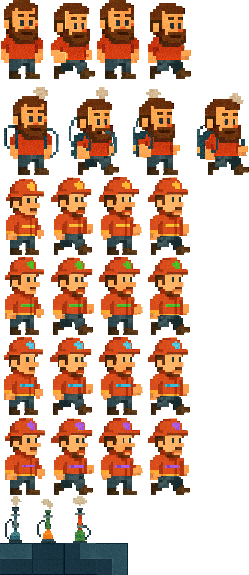
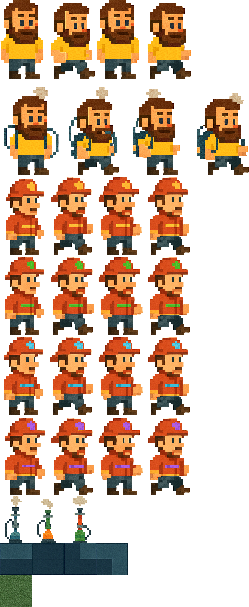
- Обновил спрайты - Облегчил игру - Убрал вертикальные свайпы в приложении телеграма

diff --git a/script/index1.js b/script/index1.js
@@ -56,10 +56,10 @@ function setStartValues() {
   setRandomItemsToMap(numItems)
   pacman = new Player()
   ghosts = [
-    new Enemy('Blinky', '#f00', {x:12, y:1}, {x:10, y:8}),
-    new Enemy('Pinky', '#ffb8ff', {x:12, y:1}, {x:10, y:8}),
-    new Enemy('Inky', '#0ff', {x:12, y:1}, {x:10, y:8}),
-    new Enemy('Clyde', '#ffb852', {x:12, y:1}, {x:10, y:8}),
+    new Enemy('Blinky', '#f00', {x:12, y:1}, {x:12, y:13}),
+    new Enemy('Pinky', '#ffb8ff', {x:12, y:1}, {x:13, y:13}),
+    // new Enemy('Inky', '#0ff', {x:12, y:1}, {x:13, y:12,direction:'up',nextDirection:'up'}),
+    // new Enemy('Clyde', '#ffb852', {x:12, y:1}, {x:13, y:11}),
   ];
   score = 0
   scoreElement.textContent = `Кальянов: ${score}/${numItems}`
@@ -241,8 +241,22 @@ function drawMap(timestamp) {
         ctx.restore();
       }
       else if (map[y][x] === 3) {
-        ctx.fillStyle = '#00ff04';
-        ctx.fillRect(x * TheGame.tileSize, y * TheGame.tileSize, TheGame.tileSize, TheGame.tileSize);
+        const centerX = x * TheGame.tileSize;
+        const centerY = y * TheGame.tileSize;
+
+        ctx.save();
+        ctx.translate(centerX + TheGame.tileSize / 2, centerY + TheGame.tileSize / 2);
+
+        // Отрисовка текущего кадра
+        const frameX = 0;
+        let frameY = 576; // Ряд спрайтов
+        ctx.drawImage(
+          spriteSheet,
+          frameX, frameY, wallFrameWeight, wallFrameHeight, // Область источника
+          -TheGame.tileSize / 2, -TheGame.tileSize / 2, TheGame.tileSize, TheGame.tileSize, // Область назначения
+        );
+
+        ctx.restore();
       }
     }
   }
@@ -359,7 +373,7 @@ function nextDirectionHandler(nextDirection, x, y) {
   let localY = Math.floor(y)
   let dx = 0
   let dy = 0
-  const space = 0.11
+  const space = 0.15
 
   switch (nextDirection) {
     case 'right':
@@ -564,26 +578,25 @@ function updateGhosts() {
     }
 
     // Движение призрака
-    const speed = 0.05; // Призраки медленнее Pac-Man
     let nextX = ghost.x;
     let nextY = ghost.y;
 
     switch (ghost.direction) {
       case 'right':
-        nextX += speed;
+        nextX += ghost.speed;
         nextY = Math.floor(nextY) + 0.1
         break;
       case 'left':
-        nextX -= speed;
+        nextX -= ghost.speed;
         nextY = Math.floor(nextY) + 0.1
         break;
       case 'up':
-        nextY -= speed;
+        nextY -= ghost.speed;
         nextX = Math.floor(nextX) + 0.1
         break;
       case 'down':
         nextX = Math.floor(nextX) + 0.1
-        nextY += speed;
+        nextY += ghost.speed;
         break;
     }
 
@@ -672,8 +685,6 @@ const touchStartHandler = (event) => {
   const touch = event.touches[0];
   startX = touch.clientX;
   startY = touch.clientY;
-
-  event.preventDefault();
 };
 
 const touchEndHandler = (event) => {
@@ -734,4 +745,13 @@ window.addEventListener("load", function() {
   drawMap()
   drawPacman()
   drawGhosts()
+
+  if (window.Telegram?.WebApp) {
+    window.Telegram.WebApp.ready();
+    window.Telegram.WebApp.expand(); // Разворачиваем приложение
+    // Настройка поведения свайпов
+    window.Telegram.WebApp.postEvent('web_app_setup_swipe_behavior', false, {
+      allow_vertical_swipe: false
+    });
+  }
 });

diff --git a/index.html b/index.html
@@ -7,6 +7,7 @@
     <link rel="preconnect" href="https://fonts.googleapis.com">
     <link rel="preconnect" href="https://fonts.gstatic.com" crossorigin>
     <link href="https://fonts.googleapis.com/css2?family=Press+Start+2P&display=swap" rel="stylesheet">
+    <script src="https://telegram.org/js/telegram-web-app.js"></script>
     <link rel="stylesheet" href="style/index.css">
 </head>
 <body>

diff --git a/script/Player.js b/script/Player.js
@@ -4,7 +4,7 @@ export default class Player {
   y = 1.1
   direction = 'right'
   nextDirection = 'right'
-  speed = 0.1
+  speed = 0.05
   image = ''
   takeObject = false
   frameWidth = 48; // Ширина одного кадра

diff --git a/script/Enemy.js b/script/Enemy.js
@@ -6,7 +6,7 @@ export default class Enemy {
   y = 1
   direction = 'right'
   nextDirection = 'right'
-  speed = 0.1
+  speed = 0.03
   image = ''
   lastAnimationTime = 0
   animationFrameIndex = 0
